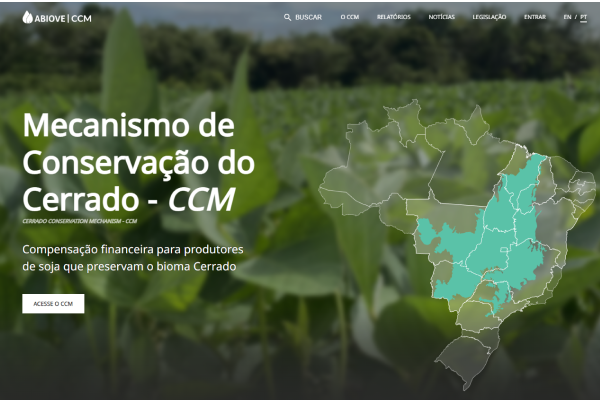
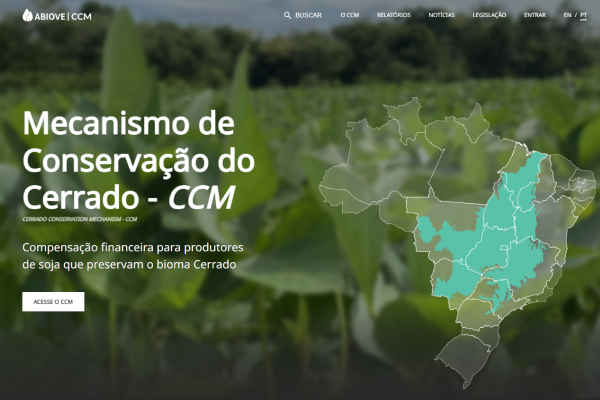
Update ccms thumbnail. Ajust link color contrast for the light theme

diff --git a/src/styles.scss b/src/styles.scss
@@ -15,7 +15,7 @@ body {
 :root {
   --navbar-height: 90px;
   --font-color-primary: rgba(0, 0, 0, 0.84);
-  --link-color: #007bff;
+  --link-color: #005aba;
   --text-secondary: #595959;
   --surface-1: #fff;
   --surface-2: #f5f5f5;
